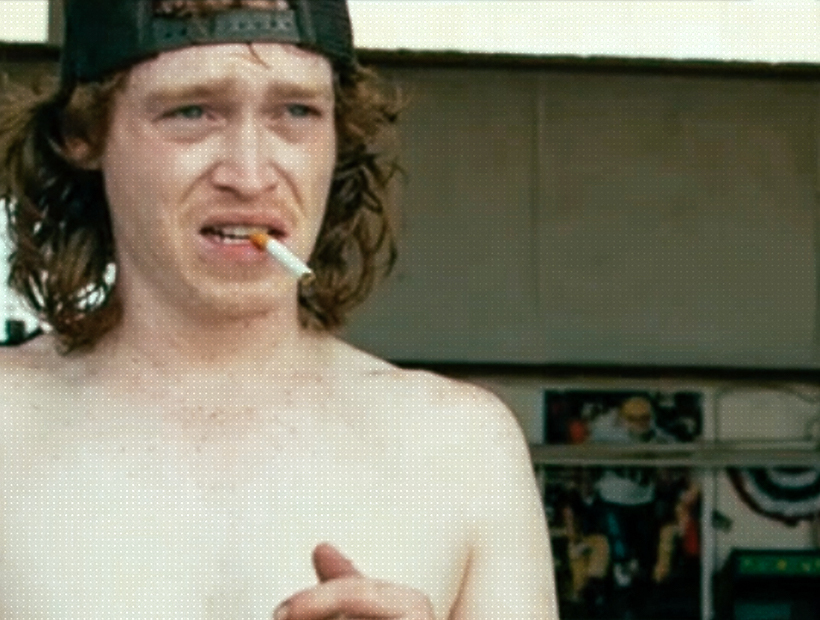
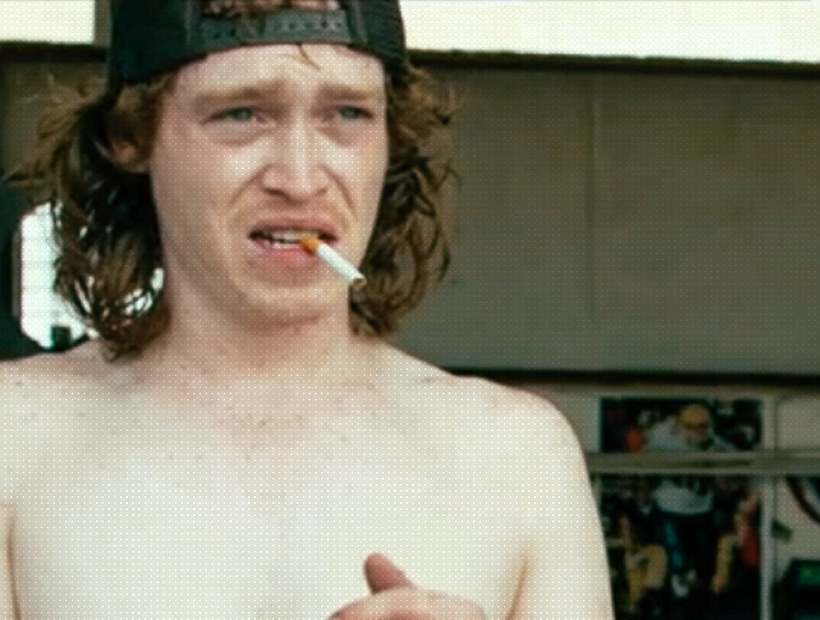
Sara's image update. Fixed domhall typo. Fixed timer spacing.

diff --git a/src/styles/main.less b/src/styles/main.less
@@ -9134,11 +9134,16 @@ footer {
     .flex-display();
     .align-items(center);
     .justify-content(center);
-    background: fade(black, 50%);
+     background: fade(black, 20%);
     min-width: 40px;
     min-height: 40px;
     border: solid 2px @color-white;
     border-radius: 50%;
+}
+
+#footer-left li:hover{
+
+     background: fade(black, 50%);
 }
 
 .nav-darken #footer-left a {
@@ -9158,18 +9163,19 @@ footer {
 
 .footer-social {
     i {
-        font-size: 20px;
+        font-size: 19px;
         text-transform: uppercase;
         color: @color-white;
         transition: color .35s @easing;
     }
     &:hover i {
-        color: @color-red;
+       
     }
 }
 
-
 .nav-darken .footer-social {
+
+
  i {
     color: @color-white;
 }
@@ -9177,6 +9183,36 @@ footer {
     color: @color-red;
 }
 }
+
+.nav-darken #footer-left  {
+    
+    position: fixed;
+    top: auto;
+    bottom: 10px;
+    right: 0;
+    padding: 0;
+    .flex-display();
+    .flex-display(row);
+    // margin-top: 6px;
+    margin-right: 10px;
+    list-style: none
+}
+
+
+.nav-darken #footer-left li  {
+    
+  .flex-display();
+    .align-items(center);
+    .justify-content(center);
+    background: fade(black, 50%);
+    min-width: 40px;
+    min-height: 40px;
+    border: solid 2px @color-white;
+    border-radius: 50%;
+}
+
+
+
 
 #footer-right {
     opacity: 1;
@@ -9194,6 +9230,7 @@ footer {
     -ms-flex-align: end;
     align-items: flex-end
 }
+
 
 .nav-darken #footer-right {
     // margin-bottom: 5px;
@@ -9706,13 +9743,11 @@ footer {
 .title-top {
    position: fixed !important;
    top: 195vh !important;
-
 }
 
 .title-bottom {
    position: fixed !important;
    top: 48vh !important;
-
 }
 
 #title_block {
@@ -10738,7 +10773,7 @@ section #story7 {
     overflow: hidden;
     background-color: #000;
 
-    &#cnc_pabloescobar {
+    &#cnc_pabloescobar, &#cnc_alejandroedda, &#cnc_caleblandryjones {
         // .cnc_actor {
         //     ~ p {
         //         display: none;
@@ -11972,6 +12007,11 @@ section #story7 {
 
     }
 
+    .nav-darken #footer-left {
+        top: auto;
+        bottom: 10px;
+    }
+
     .title-top {
        position: fixed !important;
        top: 214vh !important;
@@ -11983,7 +12023,6 @@ section #story7 {
        top: 66vh !important;
 
    }
-
 
    #gallery_text {
     z-index: 0;
@@ -12098,6 +12137,10 @@ section #story7 {
 
 .story_text2 p {
     font-size: 60px!important
+}
+
+#s2_text h2 {
+    font-size: 48px !important;
 }
 
 #story1 h2 {

diff --git a/src/data/data.js b/src/data/data.js
@@ -80,9 +80,9 @@ var data = {
 			{
 				label: 'domhallgleeson',
 				type: 'full',
-				name: 'Domhall Gleeson',
+				name: 'Domhnall Gleeson',
 				role: 'Monty Schafer',
-				text: "<p>Domhall (pronounced \"doh-nall\" with the \"m\" being silent) appeared in four films in 2015 and all four titles received nominations at the 88th Academy Awards. The films were: The Revenant (2015), Ex Machina (2014), Star Wars: The Force Awakens (2015) and Brooklyn (2015). The only other actor to achieve a similar record was Benedict Cumberbatch, who also appeared in four films that were Oscar nominated in 2013 - though he made a fifth movie that wasn't nominated.</p> <p>As of 2016, has appeared in three films that were nominated for the Best Picture Oscar: True Grit (2010), The Revenant (2015) and Brooklyn (2015).</p>",
+				text: "<p>Domhnall (pronounced \"doh-nall\" with the \"m\" being silent) appeared in four films in 2015 and all four titles received nominations at the 88th Academy Awards. The films were: The Revenant (2015), Ex Machina (2014), Star Wars: The Force Awakens (2015) and Brooklyn (2015). The only other actor to achieve a similar record was Benedict Cumberbatch, who also appeared in four films that were Oscar nominated in 2013 - though he made a fifth movie that wasn't nominated.</p> <p>As of 2016, has appeared in three films that were nominated for the Best Picture Oscar: True Grit (2010), The Revenant (2015) and Brooklyn (2015).</p>",
 				desktopImage: 'domhallgleeson',
 				overlayImage: 'domhallgleeson_overlay',
 				video: 'sh_video',

diff --git a/src/html/index.html b/src/html/index.html
@@ -310,7 +310,7 @@
 </div>
 </section>
 <section class="section-m section-m--medium" >
-  <div id="splash_bg" class="cover">
+  <div id="splash_bg" class="cover gradient gradient--right">
     <img src="img/_castncrew/cnc_mobile_caleblandryjones.jpg" class="cover"/>
   </div>
   <div class="splash_text splash_text--right">
@@ -335,8 +335,8 @@
 </div>
 </section>
 <section class="section-m section-m--medium" >
-  <div id="splash_bg" class="cover">
-    <img src="img/_castncrew/cnc_mobile_pabloescobar.jpg" class="cover"/>
+  <div id="splash_bg" class="cover gradient gradient--left">
+    <img src="img/_castncrew/cnc_mobile_pabloescobar.jpg" class="cover "/>
   </div>
   <div class="splash_text splash_text--left">
    <h2></h2>
@@ -360,7 +360,7 @@
  </div>
 </section>
 <section class="section-m section-m--medium" >
-  <div id="splash_bg" class="cover">
+  <div id="splash_bg" class="cover gradient gradient--right">
     <img src="img/_castncrew/cnc_mobile_jorgeochoa.jpg" class="cover"/>
   </div>
   <div class="splash_text splash_text--right">
@@ -939,7 +939,7 @@
             <h1>Mena '82</h1>
             <div></div>
             <!-- <p>We want you to take off from here <br> and fly directly to Miami. We’ll pay you $2,000 per kilo.</p> -->
-            <p>We're expanding operations, Barry.</p>
+            <h2>We're expanding operations, Barry.</h2>
             <!-- <p>All the way to the top, All the way to the top.</p> -->
           </div>
         </section>

diff --git a/src/styles/splash.less b/src/styles/splash.less
@@ -342,6 +342,28 @@
         // z-index: 2;
     }
 
+    &.gradient {
+        &:after {
+            content: '';
+            position: absolute;
+            z-index: 0;
+            left: 0;
+            right: 0;
+            width: 100%;
+            height: 100%;
+        }
+        &--left {
+            &:after {
+                background: radial-gradient(circle at 35% 50%, rgba(0, 0, 0, .3) 1%, rgba(0, 0, 0, 0));
+            }
+        }
+        &--right {
+            &:after {
+                background: radial-gradient(circle at 85% 50%, rgba(0, 0, 0, .3) 1%, rgba(0, 0, 0, 0));
+            }
+        }
+    }
+
     h1 {
         position: absolute;
         width: 88vw;
@@ -1112,21 +1134,24 @@
         .justify-content(flex-start);
     }
     &--right {
-        .align-items(flex-end);
-
+        .align-items(center);
+        max-width: 50%;
+        left: auto;
+        right: 6%;
         .cnc_quote_mobile {
-            .align-items(flex-end);   
+            .align-items(center);   
             p {
-                text-align: right;        
+                text-align: center;        
             }
         }
     }
     &--left {
-        .align-items(flex-start);
+        .align-items(center);
+        max-width: 50%;
         .cnc_quote_mobile {
             .align-items(center);   
             p {
-                text-align: left;        
+                text-align: center;        
             }
         }
     }

diff --git a/src/data/settings.js b/src/data/settings.js
@@ -24,7 +24,7 @@ var settings = {
 			// Cast & Crew Section
 			{ id : "tomcruise", src : "img/_castncrew/cnc_tomcruise.jpg", crossOrigin : true },
 			{ id : "domhallgleeson", src : "img/_castncrew/cnc_domhallgleeson.jpg", crossOrigin : true },
-			{ id : "sarahwright", src : "img/_castncrew/cnc_sarahwright2.jpg", crossOrigin : true },
+			{ id : "sarahwright", src : "img/_castncrew/cnc_sarahwright.jpg", crossOrigin : true },
 			{ id : "dougliman", src : "img/_castncrew/cnc_dougliman.jpg", crossOrigin : true },
 			{ id : "garyspinelli", src : "img/_castncrew/cnc_garyspinelli.jpg", crossOrigin : true },
 			{ id : "pabloescobar", src : "img/_castncrew/cnc_pabloescobar.jpg", crossOrigin : true },

diff --git a/src/js/page.js b/src/js/page.js
@@ -278,17 +278,17 @@ $('#upgradeclose').on('click', function () {
 $(window).on("scroll", function() {
 	behavior: 'smooth' 
     if ($(window).scrollTop() < detailsPos) {
+    		setTimeout(function() {
     	$details.removeClass('title-top');
          $details.addClass('title-bottom');
+     }, 400);
          
      }
     if ($(window).scrollTop() > detailsPos) {
     	 $details.removeClass('title-bottom');
         $details.addClass('title-top');
       
-    }
-
-    
+    } 
 });
 // document.body.addEventListener("touchmove", function(event) {
 // 	event.preventDefault();

diff --git a/src/styles/clock.less b/src/styles/clock.less
@@ -195,14 +195,15 @@
 
             &:first-of-type {
               font-size: 60px;
+              margin-bottom: 25px;
             }
 
             &:nth-of-type(2) {
-              margin-bottom: 45px;
+              margin-bottom: 50px;
             }
 
             &:last-of-type {
-              margin-top: 35px;
+              margin-top: 45px;
             }
         }
     }
